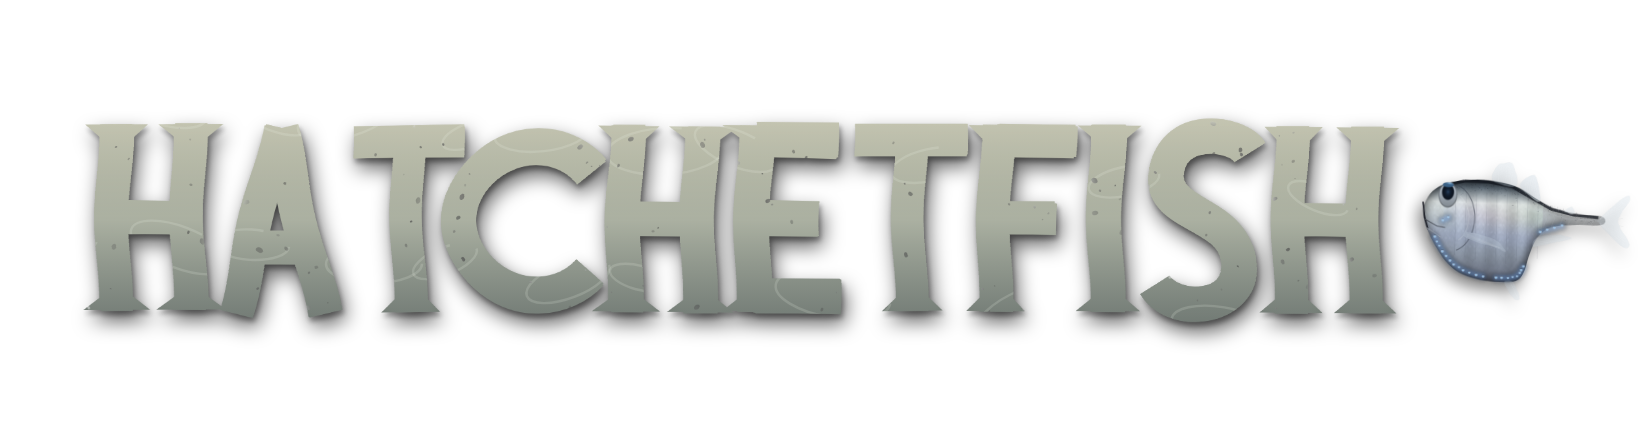
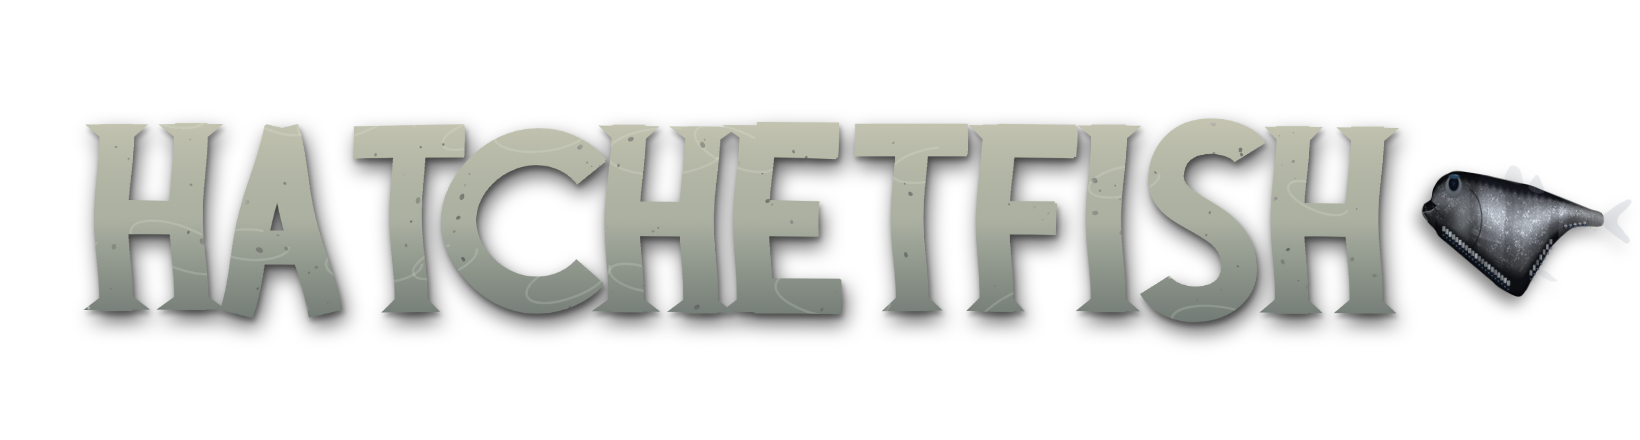
7.2.23: the hatchetfish repainted in three rounds against a photograph of Argyropelecus gigas (tools/hatchet_kit.py fish2): an angular hatchet (a straight back, a straight keel cut back from the throat, a short stalk), a darker head with an upturned jaw and a tubular eye on top, the flank a dark mir
Claude-Session: https://claude.ai/code/session_01KViiRYY5HFnTy3p7jvNZMS

Changed region(s): [[0.8396, 0.3841, 0.9951, 0.7091]]

diff --git a/index.html b/index.html
@@ -81,8 +81,8 @@
   <link rel="preconnect" href="https://fonts.googleapis.com">
   <link rel="preconnect" href="https://fonts.gstatic.com" crossorigin>
   <link href="https://fonts.googleapis.com/css2?family=Barlow+Semi+Condensed:wght@400;500;600;700&display=block" rel="stylesheet">
-  <link rel="stylesheet" href="css/style.css?v=7.2.22">
-  <link rel="stylesheet" href="css/olive.css?v=7.2.22">
+  <link rel="stylesheet" href="css/style.css?v=7.2.23">
+  <link rel="stylesheet" href="css/olive.css?v=7.2.23">
   <style>
     /* (4.17.2) the loading screen, poster-style: the painting left alone (only a slow push-in), and over it, at the
        lower left, flat type in the sunset's own orange and a warm off-white: a stamped helmet mark, the title, a
@@ -437,91 +437,91 @@
   <!-- stamp:start (tools/stamp.py) -->
   <script type="importmap">
   { "imports": {
-    "./js/abilities.js": "./js/abilities.js?v=7.2.22",
-    "./js/alarm.js": "./js/alarm.js?v=7.2.22",
-    "./js/aquarium.js": "./js/aquarium.js?v=7.2.22",
-    "./js/aquarium_draw.js": "./js/aquarium_draw.js?v=7.2.22",
-    "./js/arm.js": "./js/arm.js?v=7.2.22",
-    "./js/audio.js": "./js/audio.js?v=7.2.22",
-    "./js/autopilot.js": "./js/autopilot.js?v=7.2.22",
-    "./js/buoy_draw.js": "./js/buoy_draw.js?v=7.2.22",
-    "./js/cabin.js": "./js/cabin.js?v=7.2.22",
-    "./js/capture.js": "./js/capture.js?v=7.2.22",
-    "./js/catalog.js": "./js/catalog.js?v=7.2.22",
-    "./js/chart.js": "./js/chart.js?v=7.2.22",
-    "./js/chest_art.js": "./js/chest_art.js?v=7.2.22",
-    "./js/chests.js": "./js/chests.js?v=7.2.22",
-    "./js/clouds.js": "./js/clouds.js?v=7.2.22",
-    "./js/coin_art.js": "./js/coin_art.js?v=7.2.22",
-    "./js/coins.js": "./js/coins.js?v=7.2.22",
-    "./js/contracts.js": "./js/contracts.js?v=7.2.22",
-    "./js/creatures_draw.js": "./js/creatures_draw.js?v=7.2.22",
-    "./js/dave.js": "./js/dave.js?v=7.2.22",
-    "./js/dave_art.js": "./js/dave_art.js?v=7.2.22",
-    "./js/designs.js": "./js/designs.js?v=7.2.22",
-    "./js/earl_draw.js": "./js/earl_draw.js?v=7.2.22",
-    "./js/economy.js": "./js/economy.js?v=7.2.22",
-    "./js/entity.js": "./js/entity.js?v=7.2.22",
-    "./js/face_draw.js": "./js/face_draw.js?v=7.2.22",
-    "./js/fatfinger.js": "./js/fatfinger.js?v=7.2.22",
-    "./js/fauna.js": "./js/fauna.js?v=7.2.22",
-    "./js/fittings.js": "./js/fittings.js?v=7.2.22",
-    "./js/gallery.js": "./js/gallery.js?v=7.2.22",
-    "./js/gauge_art.js": "./js/gauge_art.js?v=7.2.22",
-    "./js/gear_art.js": "./js/gear_art.js?v=7.2.22",
-    "./js/glyphs.js": "./js/glyphs.js?v=7.2.22",
-    "./js/hud.js": "./js/hud.js?v=7.2.22",
-    "./js/hunters.js": "./js/hunters.js?v=7.2.22",
-    "./js/input.js": "./js/input.js?v=7.2.22",
-    "./js/item_art.js": "./js/item_art.js?v=7.2.22",
-    "./js/item_data.js": "./js/item_data.js?v=7.2.22",
-    "./js/item_words.js": "./js/item_words.js?v=7.2.22",
-    "./js/itemcard.js": "./js/itemcard.js?v=7.2.22",
-    "./js/items.js": "./js/items.js?v=7.2.22",
-    "./js/journal_tank.js": "./js/journal_tank.js?v=7.2.22",
-    "./js/kit_art.js": "./js/kit_art.js?v=7.2.22",
-    "./js/legendfx.js": "./js/legendfx.js?v=7.2.22",
-    "./js/main.js": "./js/main.js?v=7.2.22",
-    "./js/messages.js": "./js/messages.js?v=7.2.22",
-    "./js/monster_draw.js": "./js/monster_draw.js?v=7.2.22",
-    "./js/oldone.js": "./js/oldone.js?v=7.2.22",
-    "./js/pets.js": "./js/pets.js?v=7.2.22",
-    "./js/player.js": "./js/player.js?v=7.2.22",
-    "./js/purchases.js": "./js/purchases.js?v=7.2.22",
-    "./js/quests.js": "./js/quests.js?v=7.2.22",
-    "./js/render.js": "./js/render.js?v=7.2.22",
-    "./js/reveal.js": "./js/reveal.js?v=7.2.22",
-    "./js/scenery_draw.js": "./js/scenery_draw.js?v=7.2.22",
-    "./js/scrolls.js": "./js/scrolls.js?v=7.2.22",
-    "./js/settings.js": "./js/settings.js?v=7.2.22",
-    "./js/showcase.js": "./js/showcase.js?v=7.2.22",
-    "./js/sleeper_draw.js": "./js/sleeper_draw.js?v=7.2.22",
-    "./js/species.js": "./js/species.js?v=7.2.22",
-    "./js/species_looks.js": "./js/species_looks.js?v=7.2.22",
-    "./js/specimens.js": "./js/specimens.js?v=7.2.22",
-    "./js/station_draw.js": "./js/station_draw.js?v=7.2.22",
-    "./js/store.js": "./js/store.js?v=7.2.22",
-    "./js/suit_art.js": "./js/suit_art.js?v=7.2.22",
-    "./js/survey.js": "./js/survey.js?v=7.2.22",
-    "./js/tankroom.js": "./js/tankroom.js?v=7.2.22",
-    "./js/textures.js": "./js/textures.js?v=7.2.22",
-    "./js/title_art.js": "./js/title_art.js?v=7.2.22",
-    "./js/tokens.js": "./js/tokens.js?v=7.2.22",
-    "./js/tools_draw.js": "./js/tools_draw.js?v=7.2.22",
-    "./js/touch.js": "./js/touch.js?v=7.2.22",
-    "./js/trail.js": "./js/trail.js?v=7.2.22",
-    "./js/traps.js": "./js/traps.js?v=7.2.22",
-    "./js/tutspot.js": "./js/tutspot.js?v=7.2.22",
-    "./js/ui.js": "./js/ui.js?v=7.2.22",
-    "./js/undocumented_draw.js": "./js/undocumented_draw.js?v=7.2.22",
-    "./js/units.js": "./js/units.js?v=7.2.22",
-    "./js/util.js": "./js/util.js?v=7.2.22",
-    "./js/variants.js": "./js/variants.js?v=7.2.22",
-    "./js/version.js": "./js/version.js?v=7.2.22",
-    "./js/world.js": "./js/world.js?v=7.2.22",
-    "./data/species_about.js": "./data/species_about.js?v=7.2.22",
-    "./data/species_data.js": "./data/species_data.js?v=7.2.22",
-    "./data/species_more.js": "./data/species_more.js?v=7.2.22"
+    "./js/abilities.js": "./js/abilities.js?v=7.2.23",
+    "./js/alarm.js": "./js/alarm.js?v=7.2.23",
+    "./js/aquarium.js": "./js/aquarium.js?v=7.2.23",
+    "./js/aquarium_draw.js": "./js/aquarium_draw.js?v=7.2.23",
+    "./js/arm.js": "./js/arm.js?v=7.2.23",
+    "./js/audio.js": "./js/audio.js?v=7.2.23",
+    "./js/autopilot.js": "./js/autopilot.js?v=7.2.23",
+    "./js/buoy_draw.js": "./js/buoy_draw.js?v=7.2.23",
+    "./js/cabin.js": "./js/cabin.js?v=7.2.23",
+    "./js/capture.js": "./js/capture.js?v=7.2.23",
+    "./js/catalog.js": "./js/catalog.js?v=7.2.23",
+    "./js/chart.js": "./js/chart.js?v=7.2.23",
+    "./js/chest_art.js": "./js/chest_art.js?v=7.2.23",
+    "./js/chests.js": "./js/chests.js?v=7.2.23",
+    "./js/clouds.js": "./js/clouds.js?v=7.2.23",
+    "./js/coin_art.js": "./js/coin_art.js?v=7.2.23",
+    "./js/coins.js": "./js/coins.js?v=7.2.23",
+    "./js/contracts.js": "./js/contracts.js?v=7.2.23",
+    "./js/creatures_draw.js": "./js/creatures_draw.js?v=7.2.23",
+    "./js/dave.js": "./js/dave.js?v=7.2.23",
+    "./js/dave_art.js": "./js/dave_art.js?v=7.2.23",
+    "./js/designs.js": "./js/designs.js?v=7.2.23",
+    "./js/earl_draw.js": "./js/earl_draw.js?v=7.2.23",
+    "./js/economy.js": "./js/economy.js?v=7.2.23",
+    "./js/entity.js": "./js/entity.js?v=7.2.23",
+    "./js/face_draw.js": "./js/face_draw.js?v=7.2.23",
+    "./js/fatfinger.js": "./js/fatfinger.js?v=7.2.23",
+    "./js/fauna.js": "./js/fauna.js?v=7.2.23",
+    "./js/fittings.js": "./js/fittings.js?v=7.2.23",
+    "./js/gallery.js": "./js/gallery.js?v=7.2.23",
+    "./js/gauge_art.js": "./js/gauge_art.js?v=7.2.23",
+    "./js/gear_art.js": "./js/gear_art.js?v=7.2.23",
+    "./js/glyphs.js": "./js/glyphs.js?v=7.2.23",
+    "./js/hud.js": "./js/hud.js?v=7.2.23",
+    "./js/hunters.js": "./js/hunters.js?v=7.2.23",
+    "./js/input.js": "./js/input.js?v=7.2.23",
+    "./js/item_art.js": "./js/item_art.js?v=7.2.23",
+    "./js/item_data.js": "./js/item_data.js?v=7.2.23",
+    "./js/item_words.js": "./js/item_words.js?v=7.2.23",
+    "./js/itemcard.js": "./js/itemcard.js?v=7.2.23",
+    "./js/items.js": "./js/items.js?v=7.2.23",
+    "./js/journal_tank.js": "./js/journal_tank.js?v=7.2.23",
+    "./js/kit_art.js": "./js/kit_art.js?v=7.2.23",
+    "./js/legendfx.js": "./js/legendfx.js?v=7.2.23",
+    "./js/main.js": "./js/main.js?v=7.2.23",
+    "./js/messages.js": "./js/messages.js?v=7.2.23",
+    "./js/monster_draw.js": "./js/monster_draw.js?v=7.2.23",
+    "./js/oldone.js": "./js/oldone.js?v=7.2.23",
+    "./js/pets.js": "./js/pets.js?v=7.2.23",
+    "./js/player.js": "./js/player.js?v=7.2.23",
+    "./js/purchases.js": "./js/purchases.js?v=7.2.23",
+    "./js/quests.js": "./js/quests.js?v=7.2.23",
+    "./js/render.js": "./js/render.js?v=7.2.23",
+    "./js/reveal.js": "./js/reveal.js?v=7.2.23",
+    "./js/scenery_draw.js": "./js/scenery_draw.js?v=7.2.23",
+    "./js/scrolls.js": "./js/scrolls.js?v=7.2.23",
+    "./js/settings.js": "./js/settings.js?v=7.2.23",
+    "./js/showcase.js": "./js/showcase.js?v=7.2.23",
+    "./js/sleeper_draw.js": "./js/sleeper_draw.js?v=7.2.23",
+    "./js/species.js": "./js/species.js?v=7.2.23",
+    "./js/species_looks.js": "./js/species_looks.js?v=7.2.23",
+    "./js/specimens.js": "./js/specimens.js?v=7.2.23",
+    "./js/station_draw.js": "./js/station_draw.js?v=7.2.23",
+    "./js/store.js": "./js/store.js?v=7.2.23",
+    "./js/suit_art.js": "./js/suit_art.js?v=7.2.23",
+    "./js/survey.js": "./js/survey.js?v=7.2.23",
+    "./js/tankroom.js": "./js/tankroom.js?v=7.2.23",
+    "./js/textures.js": "./js/textures.js?v=7.2.23",
+    "./js/title_art.js": "./js/title_art.js?v=7.2.23",
+    "./js/tokens.js": "./js/tokens.js?v=7.2.23",
+    "./js/tools_draw.js": "./js/tools_draw.js?v=7.2.23",
+    "./js/touch.js": "./js/touch.js?v=7.2.23",
+    "./js/trail.js": "./js/trail.js?v=7.2.23",
+    "./js/traps.js": "./js/traps.js?v=7.2.23",
+    "./js/tutspot.js": "./js/tutspot.js?v=7.2.23",
+    "./js/ui.js": "./js/ui.js?v=7.2.23",
+    "./js/undocumented_draw.js": "./js/undocumented_draw.js?v=7.2.23",
+    "./js/units.js": "./js/units.js?v=7.2.23",
+    "./js/util.js": "./js/util.js?v=7.2.23",
+    "./js/variants.js": "./js/variants.js?v=7.2.23",
+    "./js/version.js": "./js/version.js?v=7.2.23",
+    "./js/world.js": "./js/world.js?v=7.2.23",
+    "./data/species_about.js": "./data/species_about.js?v=7.2.23",
+    "./data/species_data.js": "./data/species_data.js?v=7.2.23",
+    "./data/species_more.js": "./data/species_more.js?v=7.2.23"
   } }
   </script>
   <script type="module">if (!window.__shell) import("./js/main.js");</script>

diff --git a/js/version.js b/js/version.js
@@ -1,3 +1,3 @@
 // The game's version. Bumped with every change: the last number for small fixes and tweaks,
 // the middle one for new features or bigger changes, the first for a major overhaul.
-export const VERSION = '7.2.22';
+export const VERSION = '7.2.23';

diff --git a/tools/hatchet_kit.py b/tools/hatchet_kit.py
@@ -53,6 +53,28 @@ def fish(W=2400, H=1720, out_w=960):  # (7.3.0) twice the size, for the detail
     clear = np.clip((50 - xx) / 22, 0, 1)
     alpha = np.asarray(m, np.float32) * (1 - clear * 0.5)
     col = col * (1 - clear[..., None] * 0.35)
+    # (7.3.0, round 1, after a photograph of Argyropelecus gigas) the flank is a mirror made of upright plates: each one
+    # tilted a little differently, so each catches a different amount of the light above - bright and dark side by side,
+    # with hard edges between them (not a soft gradient). Each plate is lightest a little above its middle
+    rngp = np.random.default_rng(23)
+    wav = np.sin(yy * 0.45) * 0.35 + np.sin(yy * 0.13 + 1.0) * 0.5
+    pidx = np.floor((xx - 44 + wav) / 4.4).astype(np.int32)
+    pk = rngp.uniform(0.62, 1.32, 64); pk[::3] *= 0.85
+    plate = np.where((xx > 44) & (xx < 100), pk[np.clip(pidx, 0, 63)], 1.0)
+    inband = np.clip((v - 0.14) * 5, 0, 1) * np.clip((0.93 - v) * 6, 0, 1)
+    col *= (1 + (plate - 1) * inband)[..., None]
+    across = 1 + 0.16 * np.exp(-(((v - 0.4) / 0.17) ** 2)) * inband     # the band where the light above hits it squarely
+    col *= across[..., None]
+    col = col * 0.92 + np.array([14, 18, 26]) * 0.08                    # the cold of the water in its shadows
+    # the back: near black, a ragged edge into the silver
+    rag = (np.sin(xx * 1.7) * 0.012 + np.sin(xx * 0.53 + 2) * 0.01)
+    back = np.clip((0.15 + rag - v) * 18, 0, 1)
+    col = col * (1 - back[..., None] * 0.85) + np.array([16, 19, 26]) * back[..., None] * 0.85
+    # the head: darker than the flank, the gill cover a silver plate of its own
+    head = np.clip((xx - 84) / 6, 0, 1)
+    col *= (1 - 0.3 * head)[..., None]
+    oper = np.exp(-(((xx - 90) / 5.5) ** 2 + ((yy - 41) / 9) ** 2))
+    col = col * (1 - oper[..., None] * 0.45) + np.array([206, 210, 208]) * oper[..., None] * 0.45
     # the edges turn away from the light: darker toward the outline, so the body reads as rounded, not flat
     rim = np.asarray(m.filter(ImageFilter.GaussianBlur(Z * 3)), np.float32) / 255
     col *= (0.62 + 0.38 * np.clip((rim - 0.5) * 2.2, 0, 1))[..., None]
@@ -158,11 +180,139 @@ def fish(W=2400, H=1720, out_w=960):  # (7.3.0) twice the size, for the detail
     for x, y in organs: g.ellipse([P(x - 2.0, y - 1.6), P(x + 2.0, y + 2.4)], fill=(96, 150, 222, 120))
     glow = glow.filter(ImageFilter.GaussianBlur(Z * 1.1))
     im = Image.alpha_composite(im, glow); ov = Image.new('RGBA', (W, H), (0, 0, 0, 0)); d = ImageDraw.Draw(ov)
+    # (7.3.0, round 1) each organ is an upright silver tube with a dark pigment bar between it and the next, so the keel
+    # reads as a comb (as in the photograph), each tube with a faint blue core at its foot
     for i, (x, y) in enumerate(organs):
-        x += (rng.random() - 0.5) * 0.5; y += (rng.random() - 0.5) * 0.4; k = 0.8 + rng.random() * 0.35
-        d.ellipse([P(x - 0.75 * k, y - 0.5 * k), P(x + 0.75 * k, y + 0.95 * k)], fill=(206, 216, 226, 110))   # the silver reflector
-        d.ellipse([P(x - 0.45 * k, y - 0.15 * k), P(x + 0.45 * k, y + 0.75 * k)], fill=(156, 200, 238, 225))  # the light
-        d.chord([P(x - 0.7 * k, y - 0.6 * k), P(x + 0.7 * k, y + 0.3 * k)], 200, 340, fill=(48, 54, 66, 90))  # a thin pigment cap
+        k = 0.95 + rng.random() * 0.1
+        d.rectangle([P(x - 1.15, y - 2.6), P(x + 1.15, y + 1.3)], fill=(22, 24, 30, 200))                    # the pigment bar round it
+        d.rounded_rectangle([P(x - 0.75 * k, y - 2.3), P(x + 0.75 * k, y + 0.9)], radius=int(Z * 0.4), fill=(196, 204, 210, 235))  # the silver tube
+        d.line([P(x - 0.3, y - 2.0), P(x - 0.3, y + 0.4)], fill=(238, 240, 236, 170), width=max(1, int(Z * 0.25)))               # its shine
+        d.ellipse([P(x - 0.55, y + 0.1), P(x + 0.55, y + 1.0)], fill=(124, 160, 206, 210))                                        # the light
+    im = Image.alpha_composite(im, ov)
+    bb = im.getbbox(); im = im.crop(bb)
+    return im.resize((out_w, int(out_w * im.height / im.width)), Image.LANCZOS)
+
+
+def fish2(W=2400, H=1720, out_w=960):
+    # (7.3.0, rounds 2-3) painted after a photograph of Argyropelecus gigas: an angular hatchet (an almost straight back,
+    # a straight keel cut back from the throat and turning up sharply into a short stalk), a big dark head about a third
+    # of the fish with a heavy upturned jaw and a tubular eye on top; the flank a dark mirror of fine scales with patchy
+    # bright sparkle; the keel a dark band packed with tall silver light-organ tubes; small faint spiny fins; a clear tail.
+    # The deep's mood: cold shadows, bone-white highlights, no pure white, no cyan.
+    Z = W / 120; P = lambda x, y: (x * Z, y * Z)
+    rng = np.random.default_rng(5)
+    def line(a, b, n):  # points along a straight edge, so the spline keeps it straight
+        return [(a[0] + (b[0] - a[0]) * t / n, a[1] + (b[1] - a[1]) * t / n) for t in range(n)]
+    def smooth(pts, n=8):
+        out = []; L = len(pts)
+        for i in range(L):
+            p0, p1, p2, p3 = pts[i - 1], pts[i], pts[(i + 1) % L], pts[(i + 2) % L]
+            for k in range(n):
+                t = k / n; t2, t3 = t * t, t * t * t
+                out.append(tuple(0.5 * (2 * p1[j] + (-p0[j] + p2[j]) * t + (2 * p0[j] - 5 * p1[j] + 4 * p2[j] - p3[j]) * t2 + (-p0[j] + 3 * p1[j] - 3 * p2[j] + p3[j]) * t3) for j in (0, 1)))
+        return out
+    # the outline, clockwise from the top of the stalk: back, brow, face, jaw, throat, keel, the turn, the stalk below
+    outline = (line((24, 34.5), (58, 22.5), 6) + line((58, 22.5), (86, 17.5), 5) + [(92, 17.2), (97, 18.6), (101, 21.5)]
+               + [(103.5, 26), (104.5, 31)] + [(107.5, 33.5), (108.2, 37.5), (105.5, 41.5), (102, 45)]      # the upturned lower jaw
+               + line((100, 48), (66, 74.5), 8) + [(62, 74.8), (58.5, 72)] + line((56, 67), (44, 45), 4) + [(38, 41.8), (31, 40.6), (24, 40)])
+    body = [P(*q) for q in smooth(outline)]
+    m = Image.new('L', (W, H), 0); ImageDraw.Draw(m).polygon(body, fill=255); m = m.filter(ImageFilter.GaussianBlur(1.0))
+    A = np.asarray(m, np.float32) / 255
+    yy, xx = np.mgrid[0:H, 0:W].astype(np.float32) / Z
+    # height within the body at each column (0 the back, 1 the keel), for the bands
+    cols = np.where(A.max(0) > 0.5)[0]; top = np.full(W, np.nan); bot = np.full(W, np.nan)
+    for c in cols: r = np.where(A[:, c] > 0.5)[0]; top[c] = r[0] / Z; bot[c] = r[-1] / Z
+    top = np.nan_to_num(top, nan=0)[None, :]; bot = np.nan_to_num(bot, nan=1)[None, :]
+    v = np.clip((yy - top) / np.maximum(1, bot - top), 0, 1)
+    # the silver: dark overall, the light above caught most in a band high on the flank
+    base = 70 + 120 * np.exp(-((v - 0.36) / 0.2) ** 2) - 30 * np.clip((v - 0.7) * 3, 0, 1)
+    col = np.stack([base * 0.96, base * 0.99, base * 1.04], -1)
+    # fine scales: a net of small diamonds, each a little brighter at its upper edge; and the sparkle - scales turned to
+    # the light, bright in ragged patches (the photograph's glitter), strongest where the light band is
+    jit = np.asarray(Image.fromarray((rng.random((H // 30, W // 30)) * 255).astype(np.uint8)).resize((W, H), Image.BICUBIC), np.float32) / 255
+    su, sv = (xx * 1.0 + yy * 0.62) / 1.05 + jit * 0.9, (xx * 1.0 - yy * 0.62) / 1.05 + jit * 0.7   # (round 3) irregular, not a net
+    cell = np.abs(np.sin(su * np.pi)) * np.abs(np.sin(sv * np.pi))
+    col *= (0.92 + 0.1 * cell ** 0.5)[..., None]
+    nz = np.asarray(Image.fromarray((rng.random((H // 10, W // 10)) * 255).astype(np.uint8)).resize((W, H), Image.BICUBIC), np.float32) / 255
+    nz2 = np.asarray(Image.fromarray((rng.random((H // 40, W // 40)) * 255).astype(np.uint8)).resize((W, H), Image.BICUBIC), np.float32) / 255
+    spark = np.clip((nz * 0.6 + nz2 * 0.6 - 0.72) * 4, 0, 1) * cell * np.clip(1 - np.abs(v - 0.42) * 1.8, 0, 1) * (xx > 30)
+    col += (spark * 150)[..., None]; col *= (0.9 + 0.2 * nz)[..., None]   # (round 3) the glitter, stronger
+    # the mirror plates, faint: upright, each tilted a hair differently
+    pid = np.floor((xx - 40 + np.sin(yy * 0.4) * 0.3) / 4.2).astype(np.int32); pk = rng.uniform(0.86, 1.14, 64)
+    col *= np.where((xx > 40) & (xx < 92), pk[np.clip(pid, 0, 63)], 1.0)[..., None]
+    # the back: near black, with a ragged lower edge; the head darker, its gill cover a dull silver plate; the cold of
+    # the water in every shadow
+    back = np.clip((0.13 + 0.012 * np.sin(xx * 1.9) - v) * 16, 0, 1)
+    col = col * (1 - back[..., None] * 0.88) + np.array([14, 17, 24]) * back[..., None] * 0.88
+    head = np.clip((xx - 80) / 5, 0, 1)
+    col *= (1 - 0.42 * head)[..., None]
+    oper = np.exp(-(((xx - 89) / 5.0) ** 2 + ((yy - 40) / 8.5) ** 2)) * (1 - back)
+    col = col * (1 - oper[..., None] * 0.5) + np.array([170, 176, 180]) * oper[..., None] * 0.5
+    # the keel: a dark band along the lower edge, where the light organs sit
+    keelband = np.clip((v - 0.74) * 9, 0, 1) * (xx > 44) * (xx < 102)
+    col = col * (1 - keelband[..., None] * 0.9) + np.array([10, 12, 16]) * keelband[..., None] * 0.9
+    # the stalk: thin and partly clear, the backbone showing as a pale line
+    clear = np.clip((44 - xx) / 16, 0, 1)
+    col = col * (1 - clear[..., None] * 0.35)
+    alpha = A * (1 - clear * 0.4)
+    # the rim turns away from the light; and the water's cold in the shadows
+    rim = np.asarray(m.filter(ImageFilter.GaussianBlur(Z * 2.2)), np.float32) / 255
+    col *= (0.55 + 0.45 * np.clip((rim - 0.5) * 2.4, 0, 1))[..., None]
+    col = col * 0.9 + np.array([12, 16, 24]) * 0.1
+    col = np.minimum(col, 232)                                       # never pure white: bone at most
+    out = np.zeros((H, W, 4), np.uint8); out[..., :3] = np.clip(col, 0, 255); out[..., 3] = (alpha * 255).astype(np.uint8)
+    im = Image.fromarray(out, 'RGBA')
+    ov = Image.new('RGBA', (W, H), (0, 0, 0, 0)); d = ImageDraw.Draw(ov)
+    # fins: small, faint, spiny, ragged
+    def fin(pts, rays, a=46):
+        sp = smooth(pts, 6); jag = [(x + (rng.random() - 0.5) * 0.4, y + (rng.random() - 0.5) * 0.4) for x, y in sp]
+        d.polygon([P(*q) for q in jag], fill=(150, 160, 170, a))
+        for p1, p2 in rays: d.line([P(*p1), P(*p2)], fill=(200, 206, 212, 110), width=max(1, int(Z * 0.16)))
+    fin([(24, 35.5), (13, 27.5), (11, 29.5), (17, 37.5), (11, 45.5), (13, 47.5), (24, 39.6)], [((24, 36), (12.5, 28.5)), ((24, 37), (14, 32)), ((24, 38.6), (13.5, 43.5)), ((24, 39.3), (12, 46.8))], 58)
+    fin([(52, 25.8), (55, 17.5), (59, 23.8)], [((53, 25), (55, 17.8)), ((56, 24.4), (56.3, 19.5))], 52)            # the spiny blade
+    fin([(62, 21.8), (64, 14.5), (68, 14.2), (70, 20.3)], [((63, 21.4), (64.2, 15)), ((65.5, 21), (66, 14.6)), ((68, 20.6), (68.3, 15))])
+    fin([(84, 44), (74, 47.5), (71, 50.5), (76, 49.5), (84, 46.5)], [((84, 44.5), (72, 50)), ((84, 45.8), (75, 49.2))], 40)  # the pectoral, thin
+    fin([(50, 62), (44, 66.5), (47, 67), (53, 63.5)], [((51, 62.5), (45, 66.6))], 40)
+    # the jaw: a dark edge to the mouth, the upturned lower jaw catching a little light, tiny teeth
+    d.polygon([P(104.6, 31.2), P(107.6, 33.4), P(108.0, 37.0), P(104.0, 36.0), P(101.5, 33.8)], fill=(8, 8, 12, 235))   # (round 3) the gape, dark
+    d.line([P(101.5, 34.2), P(104.2, 36.4), P(108.0, 37.2), P(105.4, 41.2)], fill=(150, 152, 150, 170), width=int(Z * 0.45))  # the upturned lower jaw's lit edge
+    d.line([P(103.5, 34), P(98, 39.5)], fill=(20, 20, 26, 160), width=int(Z * 0.5))
+    for k in range(6): d.line([P(107.4 - k * 0.25, 34 + k * 0.7), P(106.6 - k * 0.25, 34.2 + k * 0.7)], fill=(210, 206, 196, 150), width=max(1, int(Z * 0.18)))
+    d.arc([P(80, 24), P(100, 56)], 110, 250, fill=(10, 12, 16, 150), width=int(Z * 0.55))                         # the gill cover's edge
+    # pepper pigment on the back's lower edge
+    for _ in range(520):
+        x = 26 + rng.random() * 72; t = (x - 24) / (86 - 24); y = (34.5 + (17.5 - 34.5) * min(1, t)) + 1.6 + abs(rng.normal()) * 2.6
+        r = 0.05 + rng.random() ** 2 * 0.14; d.ellipse([P(x - r, y - r), P(x + r, y + r)], fill=(10, 12, 16, int(60 + rng.random() * 120)))
+    im = Image.alpha_composite(im, ov)
+    # the eye: a big tube on top of the head, looking up: a dark lens on top, a silver ring, a dark pupil seen sideways
+    ex, ey = 94.0, 24.5; E = np.zeros((H, W, 4), np.float32)  # (round 3) smaller, lower contrast: a tube, not a googly eye
+    r1 = np.sqrt(((xx - ex) / 4.2) ** 2 + ((yy - ey) / 5.6) ** 2); ring = np.clip((1 - r1) * 9, 0, 1)
+    r2 = np.sqrt(((xx - ex) / 2.6) ** 2 + ((yy - (ey - 1.4)) / 3.8) ** 2); pup = np.clip((1 - r2) * 6, 0, 1)
+    silver = np.array([112, 120, 128]) * (0.7 + 0.4 * np.clip(1 - (yy - (ey - 7)) / 14, 0, 1))[..., None]
+    c = silver * (1 - pup[..., None]) + (np.array([8, 12, 20]) + np.array([34, 56, 84]) * np.clip(1 - r2, 0, 1)[..., None] ** 3 * 0.6) * pup[..., None]
+    c = c * (1 - 0.2 * np.exp(-((r1 - 0.93) / 0.07) ** 2))[..., None]
+    rl = np.sqrt(((xx - ex) / 2.8) ** 2 + ((yy - (ey - 4.7)) / 1.2) ** 2); lens = np.clip((1 - rl) * 5, 0, 1)
+    c = c * (1 - lens[..., None]) + np.array([40, 66, 94]) * lens[..., None]
+    c += np.array([150, 160, 166]) * np.exp(-(((xx - (ex - 1.2)) / 1.5) ** 2 + ((yy - (ey - 5.4)) / 0.35) ** 2))[..., None] * 0.3
+    E[..., :3] = np.clip(c, 0, 255); E[..., 3] = np.maximum(ring, lens) * 255
+    im = Image.alpha_composite(im, Image.fromarray(E.astype(np.uint8), 'RGBA').filter(ImageFilter.GaussianBlur(Z * 0.1)))
+    # the light organs: tall silver tubes packed along the keel (as in the photograph), each with a dark bar beside it and
+    # a faint blue light at its foot; a short group under the stalk
+    def keel_pts(a, b, n):
+        return [(a[0] + (b[0] - a[0]) * (i + 0.5) / n, a[1] + (b[1] - a[1]) * (i + 0.5) / n) for i in range(n)]
+    organs = keel_pts((98.6, 47.0), (65.8, 72.4), 21) + keel_pts((56.9, 67.8), (46.8, 50.4), 7) + keel_pts((42, 42.2), (31, 40.0), 5)  # (round 3) inside the keel, not below it
+    glow = Image.new('RGBA', (W, H), (0, 0, 0, 0)); gd = ImageDraw.Draw(glow)
+    for x, y in organs: gd.ellipse([P(x - 1.4, y - 1.4), P(x + 1.4, y + 0.6)], fill=(80, 120, 190, 55))
+    im = Image.alpha_composite(im, glow.filter(ImageFilter.GaussianBlur(Z * 1.0)))
+    ov = Image.new('RGBA', (W, H), (0, 0, 0, 0)); d = ImageDraw.Draw(ov)
+    for i, (x, y) in enumerate(organs):
+        hgt = 4.4 if i < 28 else 1.8; wd = 0.72  # (round 3) tall, packed: a comb
+        b = 0.6 + rng.random() * 0.55                                       # (round 3) each tube catches the light its own way
+        d.rounded_rectangle([P(x - wd, y - hgt), P(x + wd, y + 0.4)], radius=int(Z * 0.35), fill=tuple(int(c * b) for c in (150, 158, 166)) + (235,))
+        d.rounded_rectangle([P(x - wd, y - hgt * 0.45), P(x + wd, y + 0.4)], radius=int(Z * 0.35), fill=(20, 22, 28, 110))   # its foot in shadow
+        d.line([P(x - wd * 0.35, y - hgt + 0.4), P(x - wd * 0.35, y - hgt * 0.4)], fill=tuple(int(min(232, c * (b + 0.25))) for c in (214, 216, 210)) + (190,), width=max(1, int(Z * 0.2)))
+        d.line([P(x + wd + 0.12, y - hgt), P(x + wd + 0.12, y + 0.4)], fill=(6, 8, 10, 200), width=max(1, int(Z * 0.18)))       # the dark seam to the next
+        d.ellipse([P(x - 0.34, y - 0.55), P(x + 0.34, y + 0.05)], fill=(108, 142, 190, 170))   # its light, inside its foot
     im = Image.alpha_composite(im, ov)
     bb = im.getbbox(); im = im.crop(bb)
     return im.resize((out_w, int(out_w * im.height / im.width)), Image.LANCZOS)
@@ -197,7 +347,7 @@ def wave(full):
 
 
 if __name__ == '__main__':
-    fish().save(OUT + 'hatchetfish.png', optimize=True)
+    fish2().save(OUT + 'hatchetfish.png', optimize=True)  # (7.3.0) the repaint after the photograph; fish() is the 7.2.15 painting
     wave(False).save(OUT + 'wave.png', optimize=True)
     wave(True).save(OUT + 'wave_fill.png', optimize=True)
     print('painted')

diff --git a/README.md b/README.md
@@ -1,6 +1,6 @@
 # Hatchetfish — Deep Sea Survival
 
-Version 7.2.22 (shown on the home screen and in the pause menu; see `js/version.js`).
+Version 7.2.23 (shown on the home screen and in the pause menu; see `js/version.js`).
 
 A 2D ocean diving and survival horror game that runs in the browser (desktop).
 
